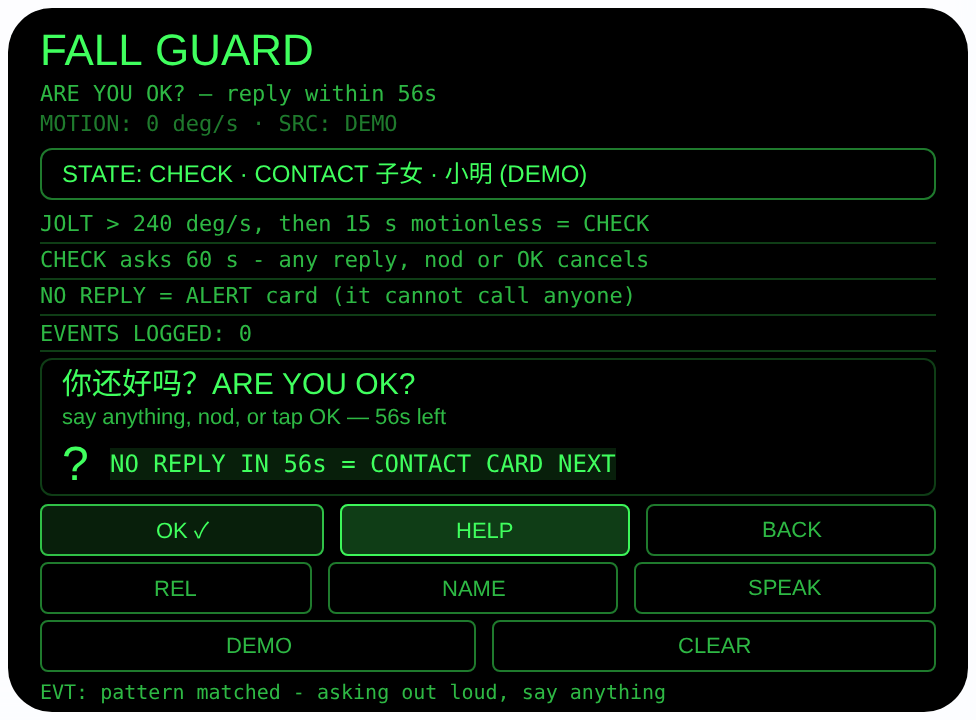
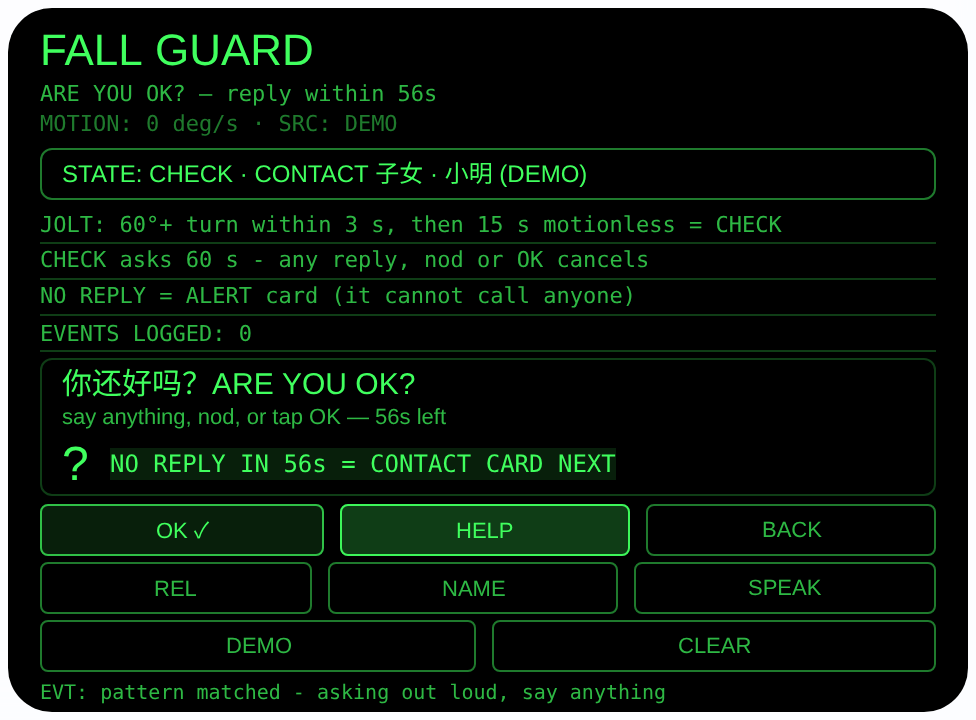
Rework #33 fall-guard for capability-boundary audit (v1.0.1)

Changed region(s): [[0.0922, 0.275, 0.7992, 0.3361]]

diff --git a/fall-guard/README.md b/fall-guard/README.md
@@ -18,7 +18,7 @@
 
 ## 指向性设计（为什么必须用眼镜）
 
-- **头部运动流（HEAD）**：`AbsoluteOrientationSensor` 四元数流是唯一的信号源（AIUI 没有跌倒 API）。相邻四元数夹角 ÷ 时间 = 头部角速度；任意 3 秒窗口内的姿势变化量 = 翻转增益。界面如实标注来源 `SENSOR / DEMO / NONE`。
+- **头部运动流（HEAD）**：本 Agent 只用 `AbsoluteOrientationSensor` 四元数流作信号源（运行时另有 Accelerometer/Gyroscope，本 Agent 未使用；AIUI 没有跌倒 API）。相邻四元数夹角 ÷ 时间 = 头部角速度；任意 3 秒窗口内的姿势变化量 = 翻转增益。界面如实标注来源 `SENSOR / DEMO / NONE`。
 - **两段判据（防误报的核心）**：正常回头、扭头和摔倒翻转一样快，单看速度必然天天误报——判据在第二段：翻转（3 秒内 ≥ 60°）**之后**连续 15 秒彻底静止（转速 < 15°/s 且不离开停止姿势的 3° 锥形区）。能自己动起来的人，观察立刻取消。两段缺一不可，这是写进状态机的，不是宣传话术。
 - **冻流不算静止**：传感器流中断超过 3 秒，静止观察立即取消——冻住的数据和一动不动的头长得一模一样，宁可漏观察，不拿假数据凑数。
 - **耳朵确认（MIC + TTS）**：CHECK 期间麦克风听**任意**声音（不设关键词、不做声纹——摔伤的人可能说不出完整的话），点头和点按同样有效；ALERT 的朗读是说给**附近的人**听的，这是眼镜扬声器在这个场景里真正的用途。
@@ -65,7 +65,7 @@ cd ~/workspace/rokid/fall-guard
 | App Category | 待导入后回填 |
 | Intent Description | 待导入后回填 |
 | Agent ID | 待导入后回填 |
-| AIX Package Size | 约 20.8 KB（本地打包 `dist/fall-guard.aix`，含本 README） |
+| AIX Package Size | 约 21.2 KB（本地打包 `dist/fall-guard.aix`，含本 README） |
 | 状态 | 本地完成，待导入 Studio |
 | Studio | aiui-global.rokid.com（en-US） |
 | 下发方式 | 云端下发 → Hi Rokid（海外版）更新眼镜资源包 |
@@ -78,7 +78,7 @@ cd ~/workspace/rokid/fall-guard
 - 四元数夹角数学：Node 加载页面对象验证——单位四元数自夹角 0、与 rotX(90°) 夹角 90、rotX(30°) 与 rotX(80°) 夹角 50、q 与 −q 夹角 0（同一姿势）；null 与零范数输入返回 null。
 - 状态机：Node 加载页面对象（wx 打桩）跑 40 条断言全过——无翻转的 30 秒静止不触发；翻转后持续运动 20 秒不触发；翻转 + 15 秒静止进入 CHECK 并记 `check-pattern`，点按应答回 MONITOR 并记 `responded-ok`；静止观察中途动一下立刻取消且计时清零；传感器流中断使观察取消（冻流不算静止）；45° 转头 + 静止不触发（未达 60° 增益）；CHECK 静默 60 秒升级 ALERT 并记 `alert-no-response`，求助朗读文案含联系人姓名且断言全文不含「已联系 / 已呼叫」；BACK 解除记 `alert-dismissed`；手动 HELP 直达 ALERT 并记 `alert-manual`；日志上限 30 条保最新；联系人存储往返恢复。
 - DEMO 确定性：联系人为虚构「子女 · 小明」，落点为 STILL 9.0s / 15s（纯种子，无 Date 依赖）；约 6 秒后状态机自行走进 CHECK；DEMO 期间联系人不落盘、演示事件不入真实日志，CLEAR 退出后真实联系人恢复——均由断言覆盖。
-- 打包：`aix pack` 成功，20.81 KB（21,306 B）；`aix list` 核对包内含 AGENTS.md、app.js、app.json、package.json、README.md、pages/index/index.ink（artifacts/ 已被 .aixignore 排除）。
+- 打包：`aix pack` 成功，21.18 KB（21,688 B）；`aix list` 核对包内含 AGENTS.md、app.js、app.json、package.json、README.md、pages/index/index.ink（artifacts/ 已被 .aixignore 排除）。
 - 预览渲染：aix preview + 本地 Ink + puppeteer 截图两张（见下方 Preview Media）：初始监测态完整渲染（预览主机无可用方向传感器，如实显示 `SRC: NONE`）；DEMO 态渲染出 STILL 种子后状态机自行升级的 CHECK 确认态（大字「你还好吗？」+ 应答倒计时），与 Node 断言行为一致。
 
 **未验证**
@@ -117,11 +117,17 @@ Honest limit: **I cannot call anyone** - only show and speak the contact. I dete
 
 ### Change Log
 
+#### Build 1.0.1
+
+**Fixes**
+
+- Corrected the on-screen detection rule to match the implementation: it previously read "JOLT > 240 deg/s", a threshold that does not exist in the code; the screen now states the real rule (a jolt is 60 degrees or more of reorientation within 3 seconds, then 15 s motionless = CHECK). Also removed the incorrect platform claim that the orientation stream is "the only motion basis in the AIUI runtime" - the runtime also documents Accelerometer/Gyroscope, which this agent does not use (capability-boundary audit, 2026-10-24).
+
 #### Build 1.0.0
 
 **Features added**
 
-- Fall-pattern state machine on the documented AbsoluteOrientationSensor quaternion stream (the only motion basis in the AIUI runtime - there is no fall-detection API): angular speed from successive quaternions, a jolt is 60 degrees or more of reorientation inside any 3-second window, and the CHECK state requires a further 15 continuous seconds of stillness (speed under 15 deg/s, inside a 3-degree cone of the stopped pose). Either half alone - a fast turn, or a motionless head - can never trigger, which is what keeps normal head turns, walking and lying down from raising false checks all day.
+- Fall-pattern state machine on the documented AbsoluteOrientationSensor quaternion stream (this agent's chosen motion basis - the runtime also documents Accelerometer/Gyroscope, which this agent does not use; there is no fall-detection API): angular speed from successive quaternions, a jolt is 60 degrees or more of reorientation inside any 3-second window, and the CHECK state requires a further 15 continuous seconds of stillness (speed under 15 deg/s, inside a 3-degree cone of the stopped pose). Either half alone - a fast turn, or a motionless head - can never trigger, which is what keeps normal head turns, walking and lying down from raising false checks all day.
 - Spoken check with open response: on a match the glasses ask 'are you OK?' immediately and every 15 seconds, listen for ANY recognized speech (deliberately no keyword and no voiceprint - a hurt person may only manage a groan), and accept a head nod, an OK tap or the Enter key as the same answer; a response logs 'responded-ok' and returns to monitoring. Movement during the stillness watch, and any break in the sensor stream (a frozen stream would otherwise fake stillness), cancels the watch outright.
 - Pre-set emergency contact card: relation cycled with REL (child / spouse / neighbor / caregiver), the name dictated once with NAME and stored verbatim on-device (wx key fallGuardContact - a name is never silently 'corrected'); 60 seconds without a response, or a manual HELP tap in any state, raises the ALERT card, which shows the contact in big type and reads the help sentence aloud every 20 seconds (with a dial-120 fallback line when no contact is set). An on-device event log (times and outcome categories only, capped at 30, wx key fallGuardLog) supports family review.
 - DEMO simulation, memory only: a synthetic 95-degree jolt followed by stillness lands in the STILL watch at 9.0 of 15 seconds and escalates into CHECK on its own seconds later; the demo contact is fictional and labeled DEMO, is never persisted, and demo events never enter the real log.

diff --git a/fall-guard/AGENTS.md b/fall-guard/AGENTS.md
@@ -15,10 +15,11 @@ Rokid 眼镜跌倒守望智能体（AIUI Agent）。
 
 ## 能力
 
-- 动作模式检测（本 Agent 的核心）：只有文档化的
+- 动作模式检测（本 Agent 的核心）：本 Agent 只用
   `AbsoluteOrientationSensor` 四元数流（约 5Hz）加宿主的
-  `onOrientationStabilityChange` 稳定事件——AIUI 里没有
-  「跌倒检测」这种 API。相邻四元数之间的夹角给出头部角
+  `onOrientationStabilityChange` 稳定事件（运行时另有
+  Accelerometer/Gyroscope，本 Agent 未使用）——AIUI 里
+  没有「跌倒检测」这种 API。相邻四元数之间的夹角给出头部角
   速度；任意 3 秒窗口内姿势变化 ≥ 60° 记为一次「剧烈
   翻转」（jolt）；翻转结束后头部转速降下来，进入静止
   观察：接下来连续 15 秒，头部必须慢于 15°/s、且不离开
